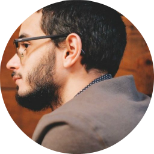
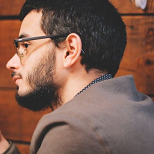
Novo peixinho

diff --git a/index.html b/index.html
@@ -165,12 +165,11 @@ License URL: http://creativecommons.org/licenses/by/3.0/
 				<h2>Quem somos?</h2>
 				<!---- start-features-grids------>
 					<div class="features-grids text-center">
-                        <div class="col-md-1 features-grid"></div>
                         <div class="col-md-2 features-grid">
 							<span class="t-icon3"> </span>
                             <h3>Almirante<br>Atum</h3>
 							<h4><a href="https://www.twitter.com/RuiAMGSilva" target="_blank">Rui Silva</a></h4>
-							<p>19. Benfica. Ciências da Comunicação na FCSH/NOVA. Almirante Atum dos [Peixinhos].</p>
+							<p>20. Benfica. Almirante Atum dos [Peixinhos]. Filmo coisas, ocasionalmente no ar.</p>
 						</div>
 						<div class="col-md-2 features-grid">
 							<span class="t-icon1"> </span>
@@ -193,10 +192,15 @@ License URL: http://creativecommons.org/licenses/by/3.0/
                         <div class="col-md-2 features-grid">
 							<span class="t-icon5"> </span>
                             <h3>Major<br>Merluza</h3>
-							<h4><a href="https://www.twitter.com/TheTweenerTurn" target="_blank">Manuel Caramelo</a></h4>
-							<p>23 anos. FCSH. Adivinho as horas com o poder da mente. Uma vez mandei um ganso pó crl. || SL Benfica</p>
+							<h4><a href="https://www.twitter.com/TweenerTurn" target="_blank">Manuel Caramelo</a></h4>
+							<p>24, Lisboa. Orgulhoso portador de um micropénis. Uma vez mandei um ganso à merda.</p>
 						</div>
-                        <div class="col-md-1 features-grid"></div>
+						<div class="col-md-2 features-grid">
+							<span class="t-icon6"> </span>
+                            <h3>Comodoro<br>Corvina</h3>
+							<h4><a href="https://twitter.com/Mafaaaa_" target="_blank">Ricardo Ramos</a></h4>
+							<p>90% das minhas conversas envolvem referências musicais e cinematográficas. let me introduce you to my three best friends: Mr. Johnson and the Juice Crew.</p>
+						</div>
 						<div class="clearfix"> </div>
 					</div>
 				<!---- //End-features-grids------>

diff --git a/css/theme-style.css b/css/theme-style.css
@@ -430,18 +430,27 @@ nav a#pull {
 }
 .features-grid span.t-icon1{
 	background: url(../images/img_cherne.png) no-repeat;
+	border-radius: 50%;
 }
 .features-grid span.t-icon2{
 	background: url(../images/img_truta.png) no-repeat;
+	border-radius: 50%;
 }
 .features-grid span.t-icon3{
 	background: url(../images/img_atum.png) no-repeat;
+	border-radius: 50%;
 }
 .features-grid span.t-icon4{
     background: url(../images/img_salmao.png) no-repeat;
+	border-radius: 50%;
 }
 .features-grid span.t-icon5{
     background: url(../images/img_merluza.png) no-repeat;
+	border-radius: 50%;
+}
+.features-grid span.t-icon6{
+    background: url(../images/img_comodoro.png) no-repeat;
+	border-radius: 50%;
 }
 .features-grids{
 	padding-top:2.5em;
